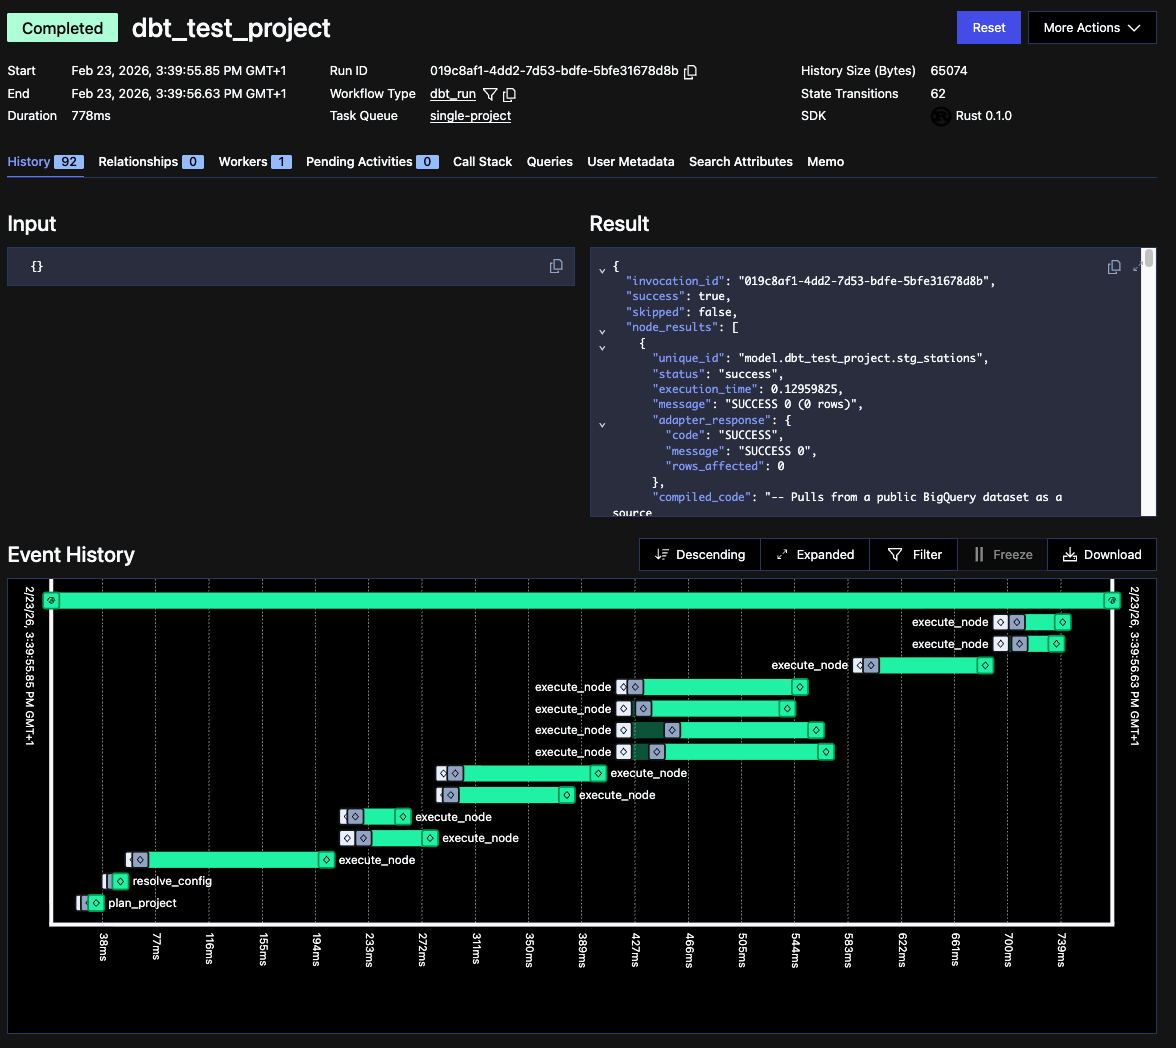
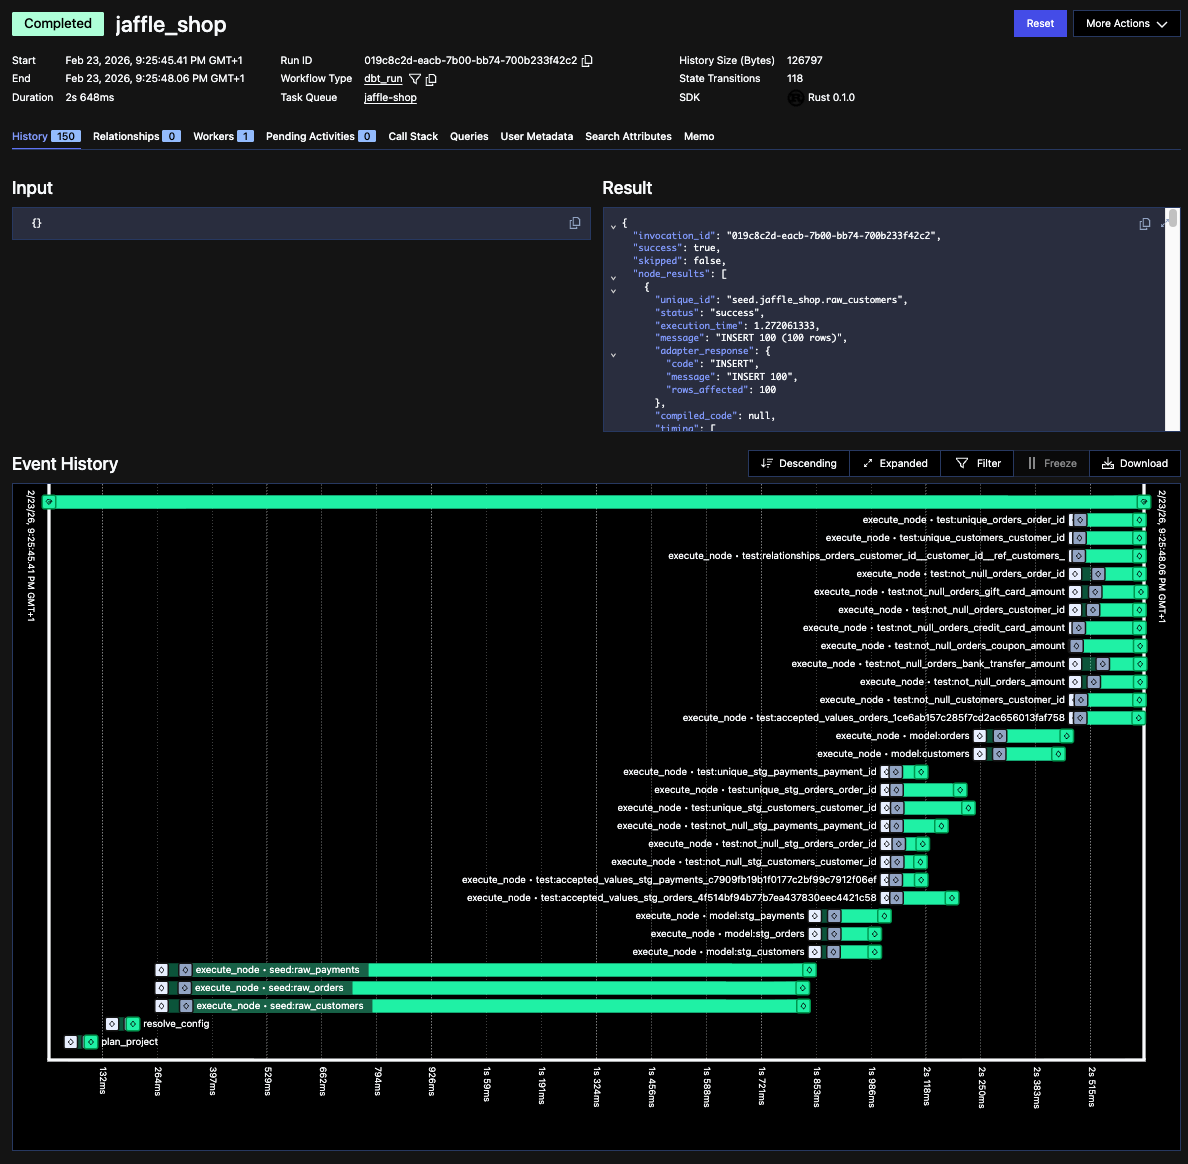
Add activity summary for Temporal UI, seed support, updated screenshot

Changed region(s): [[0.0, 0.0, 1.0, 0.9466], [0.8265, 0.0916, 0.8571, 0.1221]]

diff --git a/src/activities/execute_node.rs b/src/activities/execute_node.rs
@@ -419,7 +419,12 @@ async fn execute_node_inner(
     // with fully inlined kwargs there (e.g. accepted_values values=[...]), while `raw_code`
     // can be a reduced template that references `_dbt_generic_test_kwargs`.
     #[allow(clippy::option_if_let_else)] // if-let-else is clearer here
-    let raw_sql_result = if rt == NodeType::Test {
+    let raw_sql_result = if rt == NodeType::Seed {
+        // Seeds have no SQL body — data comes from agate_table (loaded above).
+        // Reading original_file_path here would pick up the CSV file and embed it
+        // verbatim in CREATE TABLE AS (csv_content...), producing invalid SQL.
+        Ok(String::new())
+    } else if rt == NodeType::Test {
         if let Some(sql) = state.test_sql_cache.get(&node_path) {
             Ok(sql.clone())
         } else {
@@ -627,7 +632,14 @@ async fn execute_node_inner(
     // Resolve the materialization template using dbt-fusion's MaterializationResolver.
     // This applies proper adapter prefix inheritance (e.g. redshift→postgres→default)
     // and package precedence (Root > Imported > Core for builtins).
-    let materialization = base.materialized.to_string().to_lowercase();
+    // Seeds always dispatch to materialization_seed_default, which uses agate_table to
+    // generate INSERT/COPY SQL. dbt-fusion sets their materialized field to "table",
+    // but using that would call materialization_table_default with an empty sql body.
+    let materialization = if rt == NodeType::Seed {
+        "seed".to_string()
+    } else {
+        base.materialized.to_string().to_lowercase()
+    };
 
     // Extract compiled SQL from the node context before rendering.
     let compiled_sql = node_context

diff --git a/src/workflow/mod.rs b/src/workflow/mod.rs
@@ -268,6 +268,9 @@ impl DbtRunWorkflow {
 
                 // Per-node labeling in Temporal UI: activity_id for event details,
                 // summary for the Gantt chart display (appended after activity type).
+                // Note: summary encoding is broken in temporalio-sdk 0.1.0-alpha.1
+                // (binary/plain instead of json/plain) — shows "Decoding failed"
+                // in the UI. Fixed in https://github.com/temporalio/sdk-core/pull/1129
                 let node_label = plan.nodes.get(unique_id).map(|info| {
                     let rt = info
                         .resource_type
